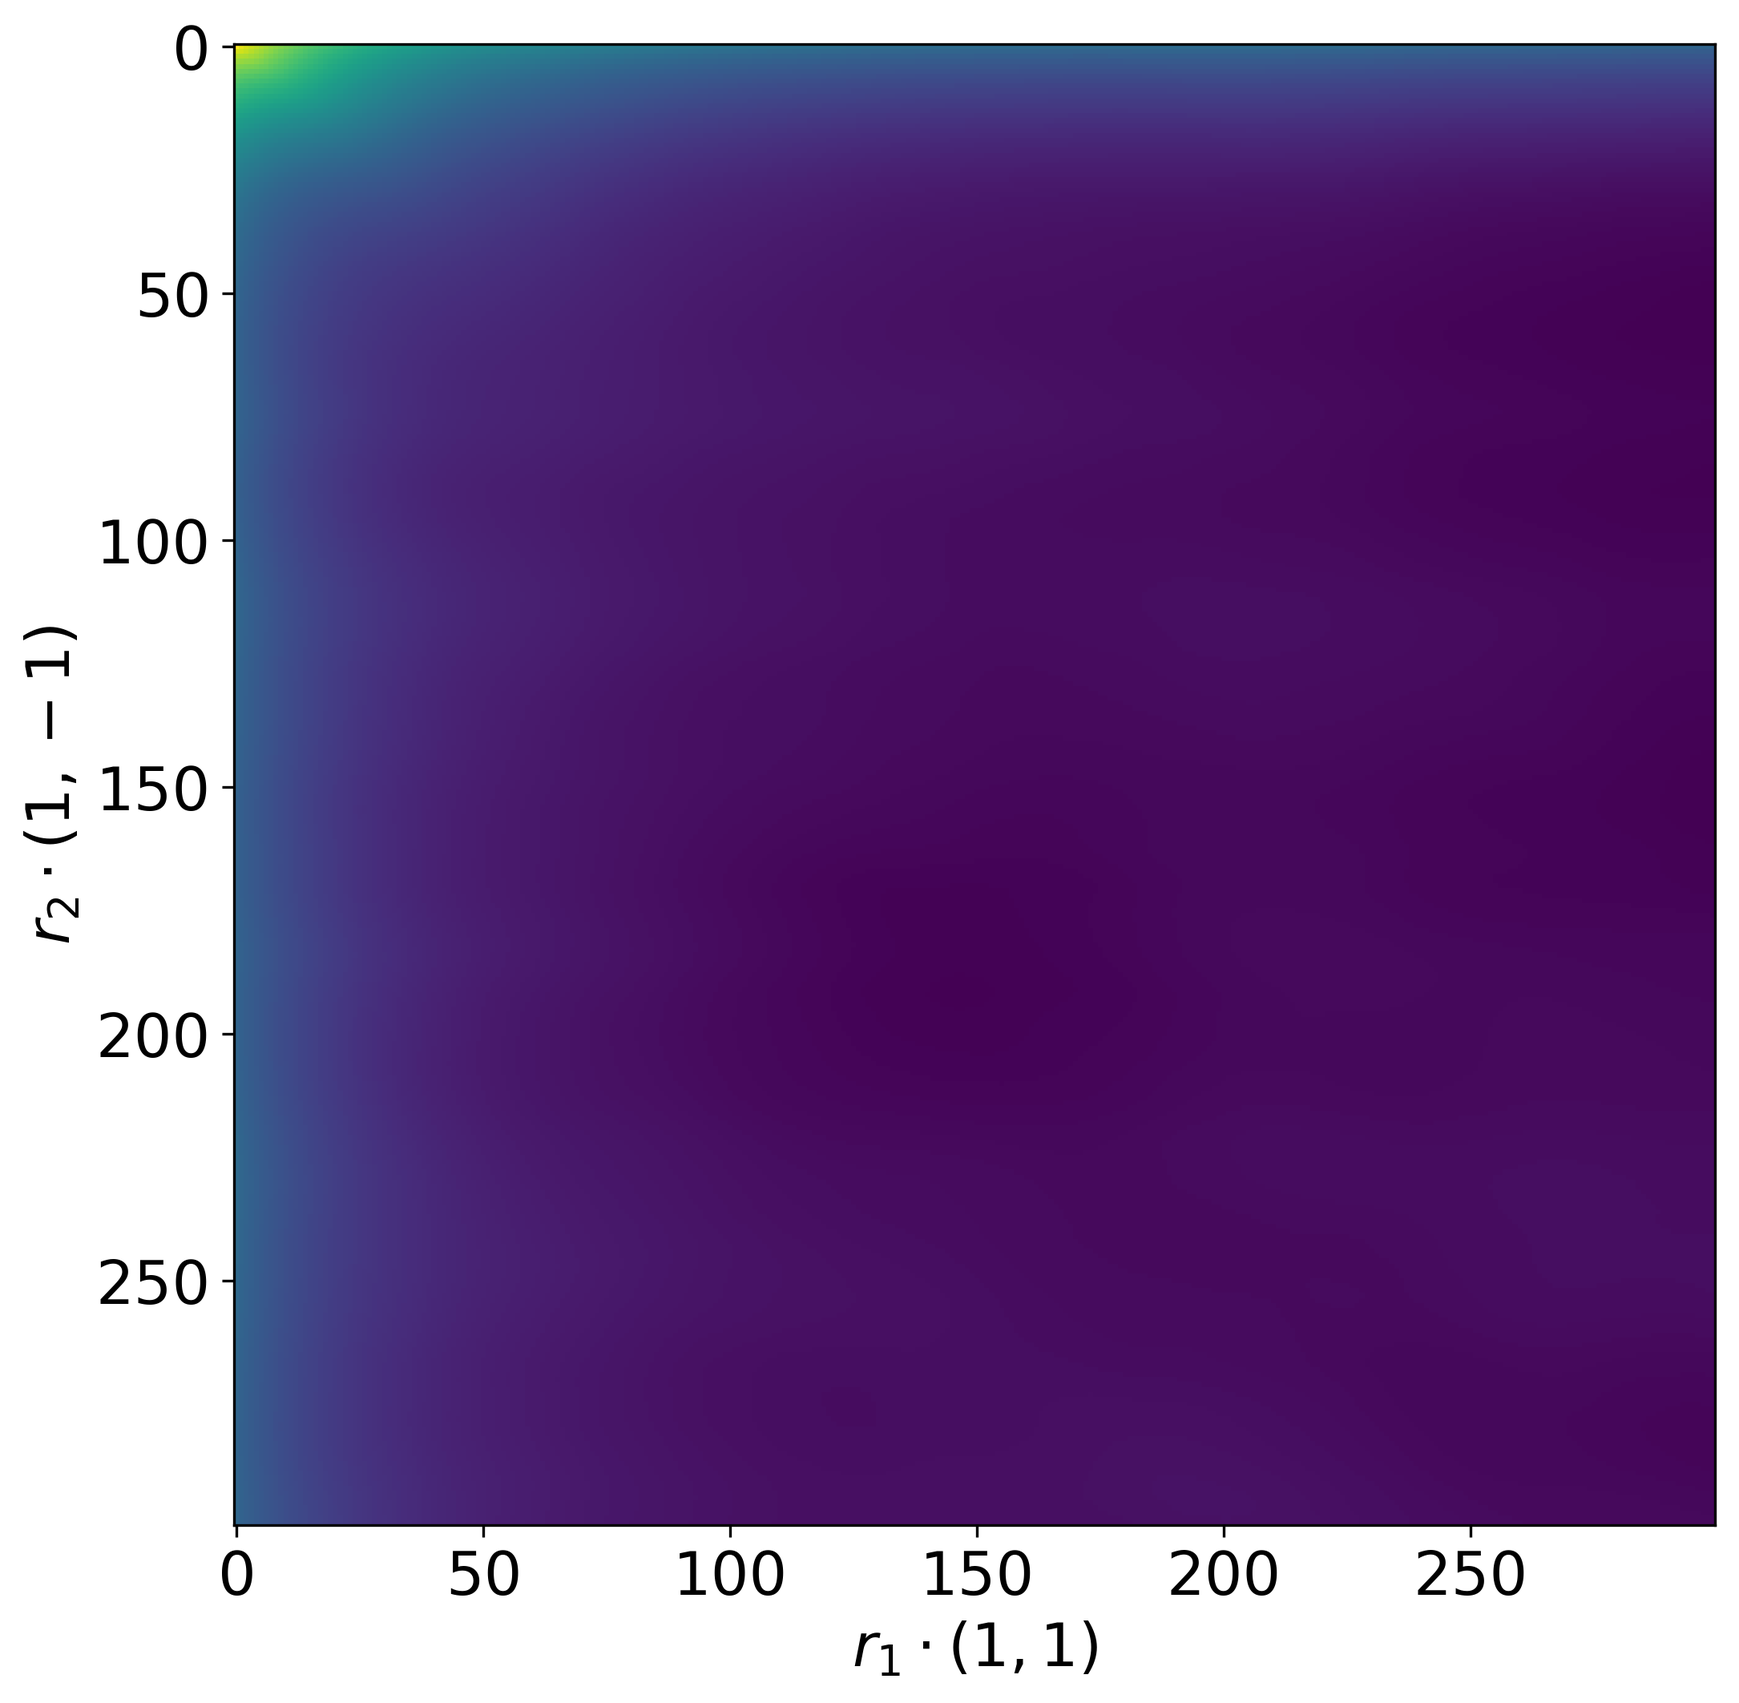
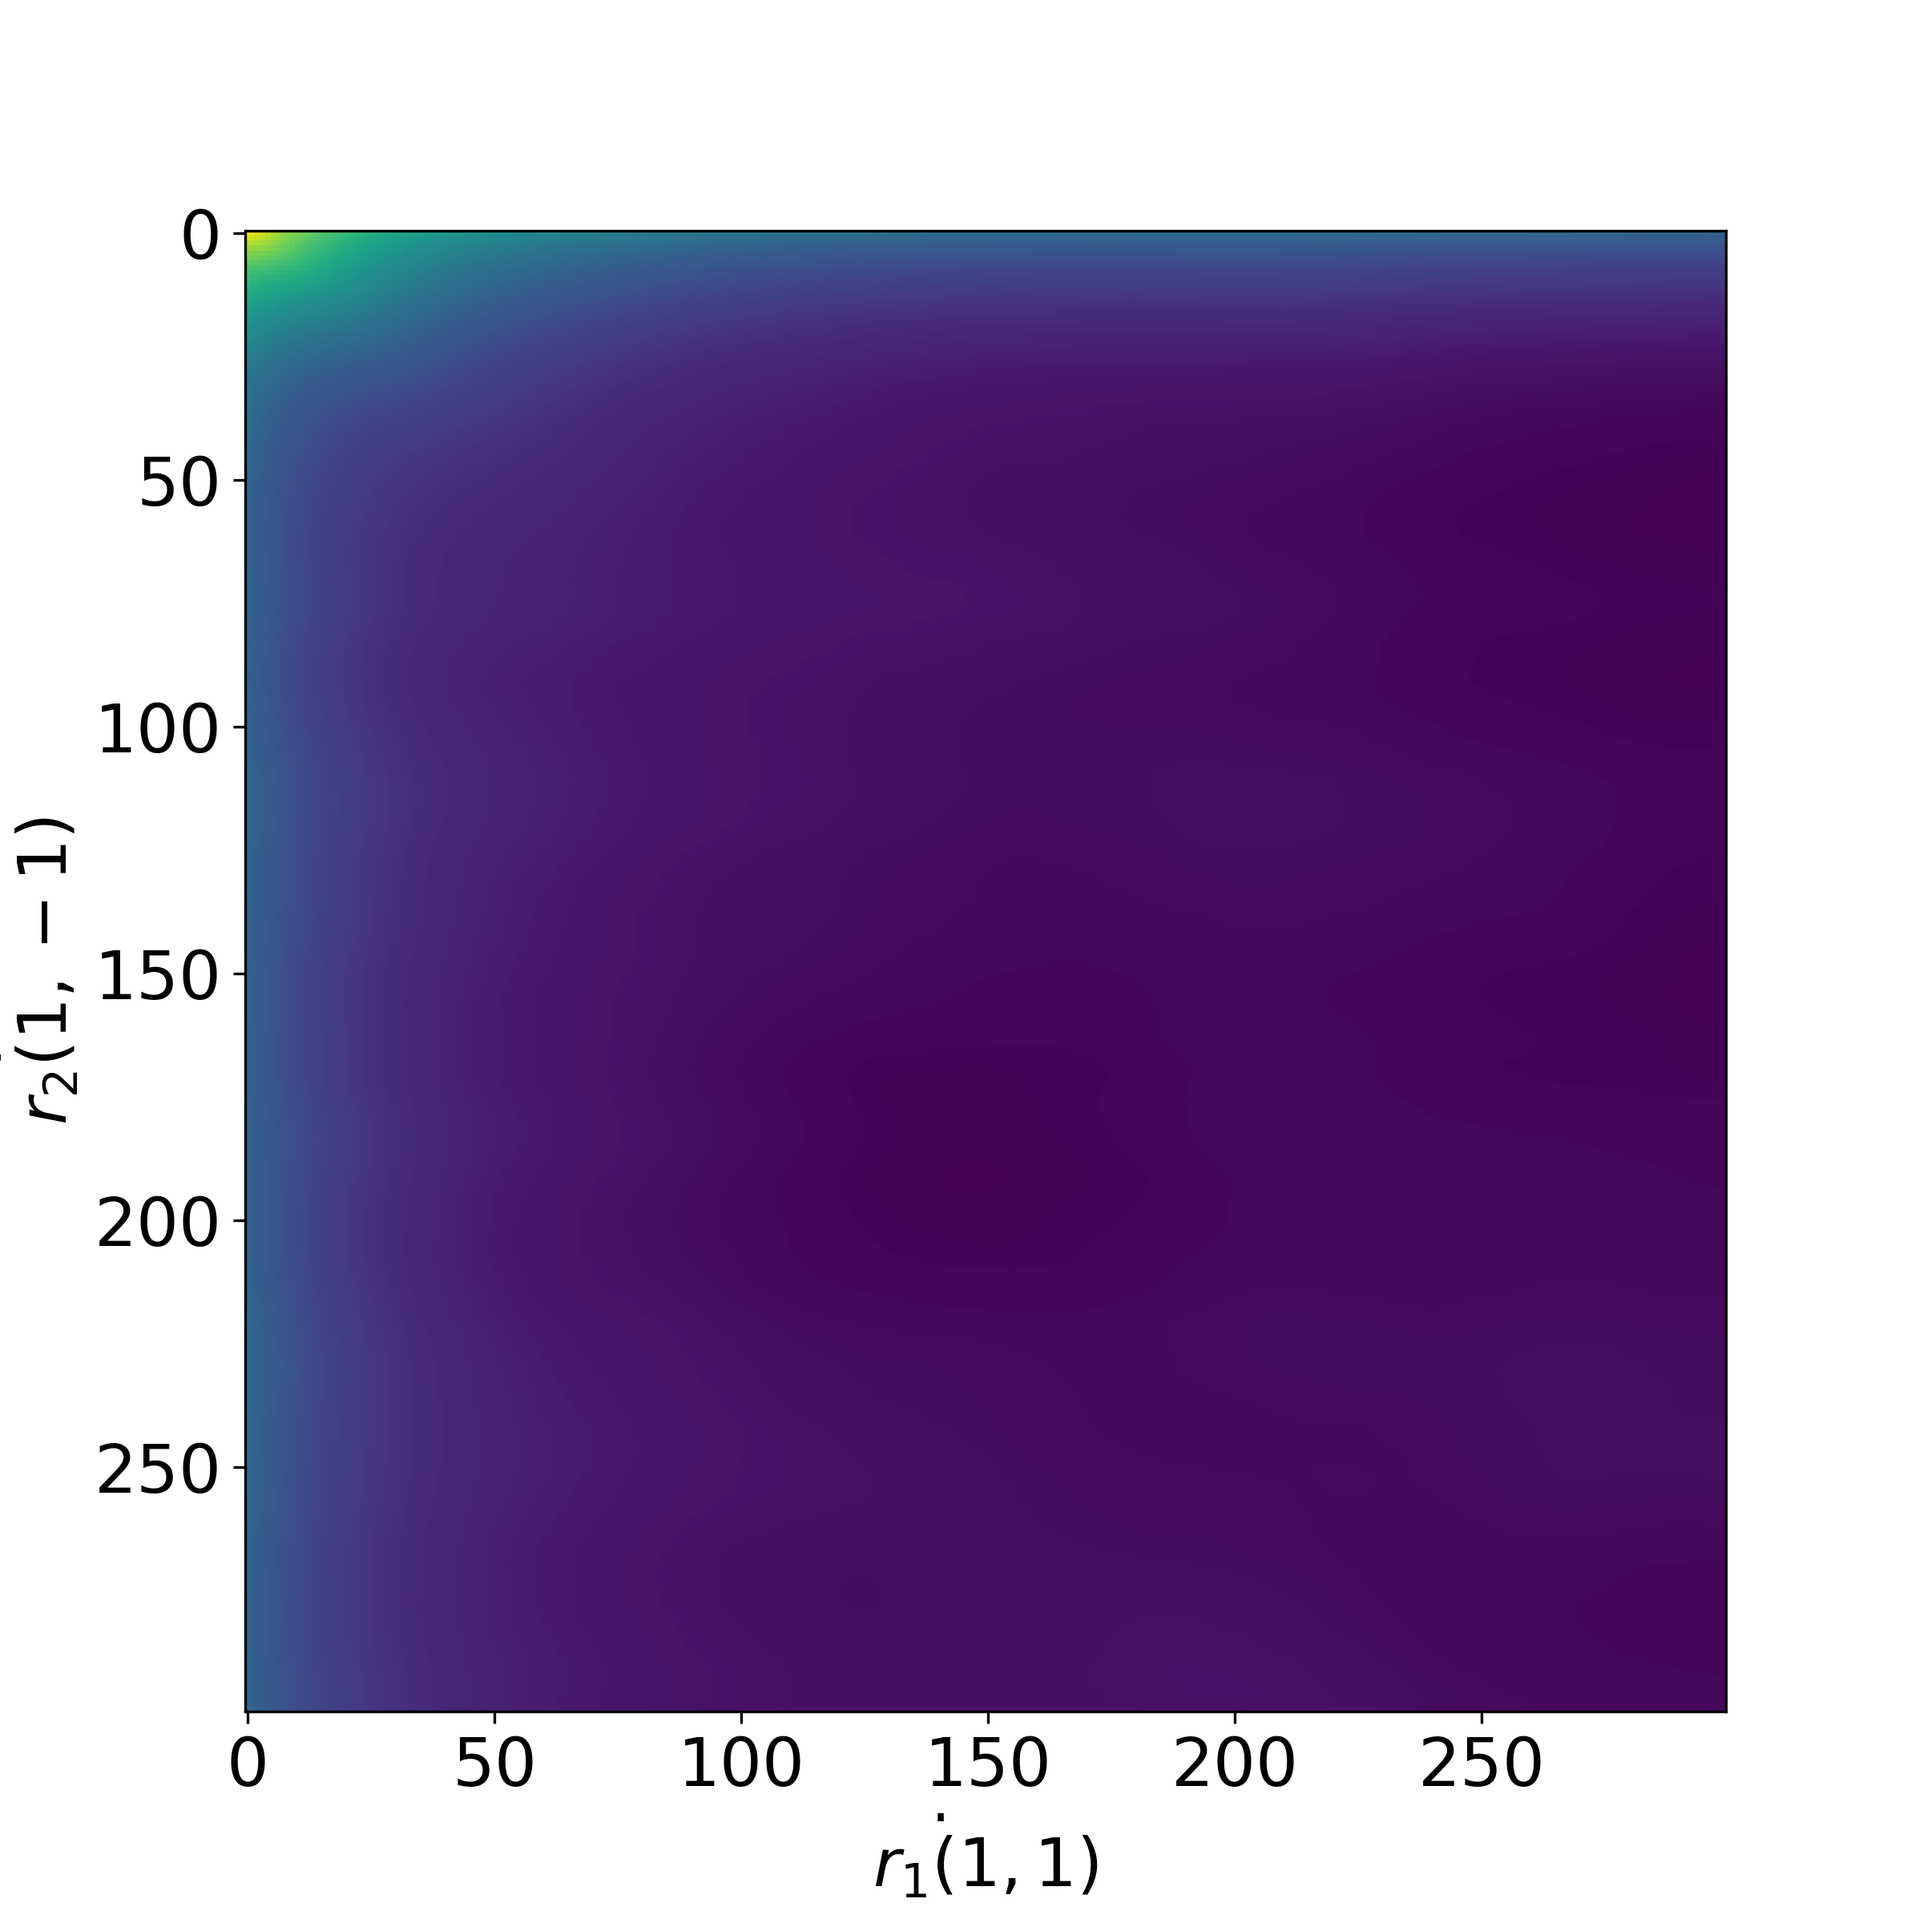
Reorder images

Changed region(s): [[0.0, 0.0, 0.988, 0.9939]]

diff --git a/paper.tex b/paper.tex
@@ -534,11 +534,11 @@ CorrelationFunctions.jl package. By applying a rotation to the input first we
 made a rest of the algorithm cache-friendly by avoiding random memory access.
 \begin{figure}[tp]
   \centering
-  \includegraphics[width=0.3\linewidth]{images/aniso.png}
+  \includegraphics[width=0.4\linewidth, frame]{images/aniso.png}
+  \vskip\baselineskip
+  \includegraphics[width=0.45\linewidth]{images/aniso-s3.png}
   \hfill
-  \includegraphics[width=0.3\linewidth]{images/aniso-s3.png}
-  \hfill
-  \includegraphics[width=0.3\linewidth]{images/aniso-s3-avg.png}
+  \includegraphics[width=0.45\linewidth]{images/aniso-s3-avg.png}
   \caption[]{$S_3$ function for anisotropic media (on the left) elongated along
     the vector $(1, 1)$. Anisotropicity of the medium can be seen on a heatmap
     of $S_3$ function (in the middle). An average of 120 $S_3$ evaluations of
